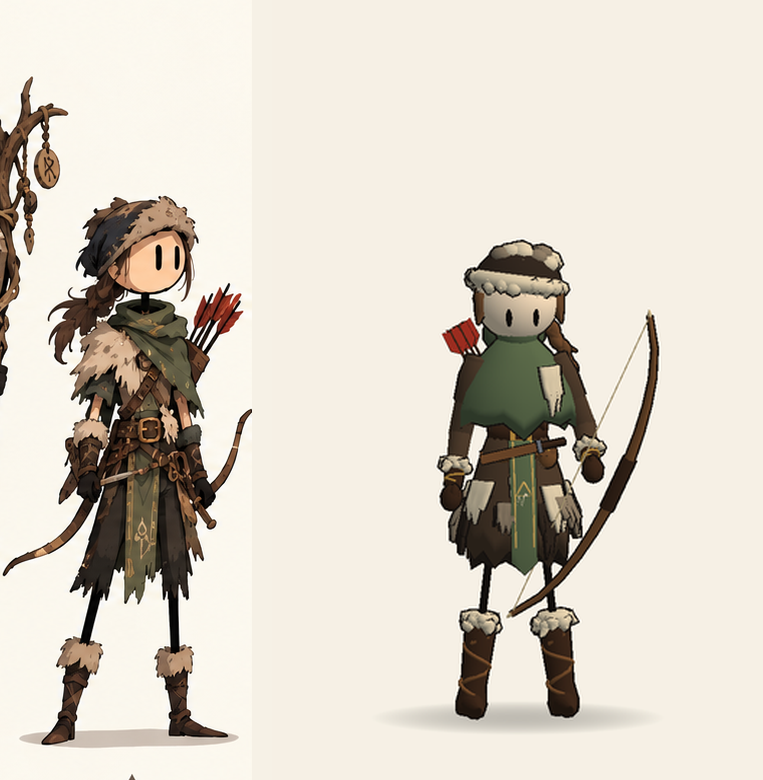
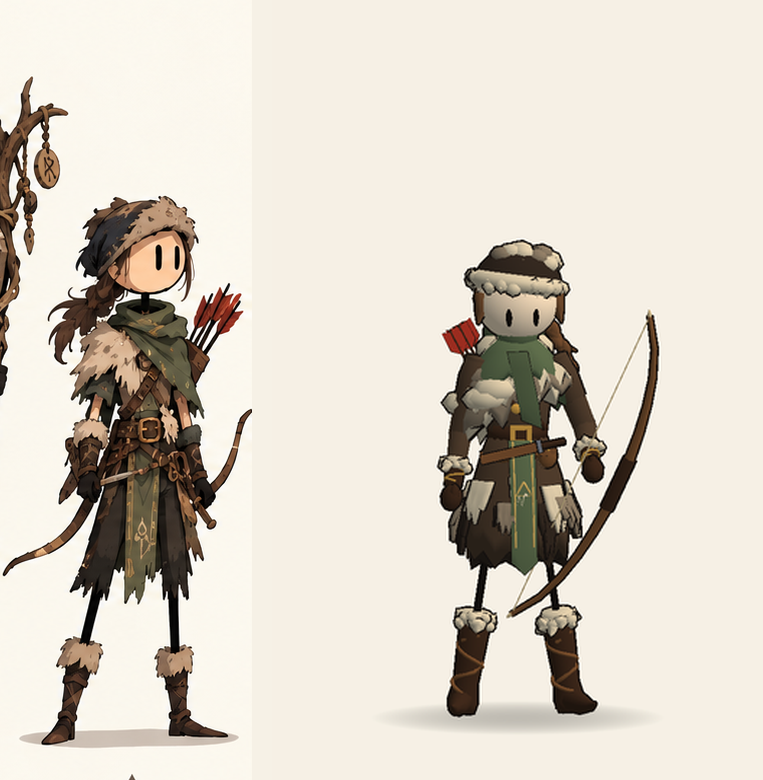
Odin's Coin characters: Scout polish pass 1 (all six have had a first pass)
The Scout's green hood-scarf is now a short capelet round the neck,
raised in front so the chest and straps show, with the scarf's tail
hanging down one side; a shaggy pelt sits over the right shoulder only
(ShoulderPelt can now be one-sided); a wide stance.

Claude-Session: https://claude.ai/code/session_01SCdejJ1UF8RUxAkkFhZXGU

Changed region(s): [[0.5727, 0.4308, 0.7536, 0.5846], [0.5727, 0.7077, 0.6632, 0.9231], [0.6933, 0.7077, 0.7837, 0.9231]]

diff --git a/OdinsCoin/Assets/Scripts/Characters/Garments.cs b/OdinsCoin/Assets/Scripts/Characters/Garments.cs
@@ -121,7 +121,10 @@ namespace OdinsCoin
         }
 
         /// <summary>A thick pelt over the shoulders: the wide shaggy silhouette of the concept art.</summary>
-        public static void ShoulderPelt(Dresser d, float size)
+        public static void ShoulderPelt(Dresser d, float size) { ShoulderPelt(d, size, 0f); }
+
+        /// <summary>The pelt; <paramref name="side"/> +1 keeps it over the right shoulder only (-1 left, 0 both).</summary>
+        public static void ShoulderPelt(Dresser d, float size, float side)
         {
             var f = d.fit;
             float s = d.S;
@@ -133,7 +136,14 @@ namespace OdinsCoin
             float top = f.shoulderY + 0.035f * s;
             // Short over the chest (so brooches, straps and the tunic show), long over the shoulders and back.
             float drop = f.shoulderY - bottom;
-            System.Func<float, float> shortFront = a => { float c = Mathf.Max(0f, Mathf.Cos(a)); return drop * 0.7f * c * c; };
+            System.Func<float, float> shortFront = a =>
+            {
+                float c = Mathf.Max(0f, Mathf.Cos(a));
+                float raise = drop * 0.7f * c * c;
+                // One-sided: pull the hem right up on the other shoulder.
+                if (side != 0f) raise = Mathf.Max(raise, drop * 0.95f * Mathf.Clamp01(-Mathf.Sin(a) * side * 1.5f + 0.2f));
+                return raise;
+            };
             float hug = Mathf.Clamp01(f.chestR * f.depth * 1.25f / (r * 0.8f));
             System.Func<float, float> hugFront = a => { float c = Mathf.Max(0f, Mathf.Cos(a)); return Mathf.Lerp(1f, hug, c * c); };
             d.Add(Joints.Body, d.pal.furShadow, CharacterKit.RaggedSkirt(top - 0.02f * s, f.chestR * 0.78f, bottom - 0.035f * s, r * 1.02f, 0.78f, 26, 0.07f * s * size, d.seed + 7, shortFront, hugFront));
@@ -142,7 +152,9 @@ namespace OdinsCoin
             var rng = new System.Random(d.seed + 8);
             for (int i = 0; i < 16; i++)
             {
-                float a2 = Mathf.PI * 0.35f + (float)rng.NextDouble() * Mathf.PI * 1.3f; // mostly on the shoulders and back
+                float a2 = side != 0f
+                    ? Mathf.PI * 0.5f * side + ((float)rng.NextDouble() - 0.5f) * 1.6f // on the one shoulder
+                    : Mathf.PI * 0.35f + (float)rng.NextDouble() * Mathf.PI * 1.3f;   // mostly on the shoulders and back
                 float t = 0.35f + (float)rng.NextDouble() * 0.6f;
                 float rad = Mathf.Lerp(f.chestR * 0.62f, r, t * t) + 0.01f * s;
                 float y = Mathf.Lerp(top, bottom, t) + 0.012f * s;
@@ -944,12 +956,23 @@ namespace OdinsCoin
             d.Add(Joints.Body, d.pal.accent, MeshData.Lathe(new[] {
                 new Vector2(f.chestR * 0.5f, f.neckY - 0.01f * s), new Vector2(f.chestR * 0.7f, f.neckY + 0.04f * s), new Vector2(f.chestR * 0.55f, f.neckY + 0.07f * s) }, 16)
                 .Transformed(Vector3.zero, Quaternion.identity, new Vector3(1f, 1f, 0.95f)));
-            d.Add(Joints.Body, d.pal.accent, CharacterKit.RaggedSkirt(f.neckY + 0.01f * s, f.chestR * 0.62f, f.chest - 0.05f * s, f.shoulderX + 0.06f * s, 0.8f, 18, 0.05f * s, d.seed + 83));
+            // A short capelet over the shoulders, raised in front so the chest shows.
+            float capeBottom = f.shoulderY - 0.1f * s, capeDrop = f.neckY - capeBottom;
+            d.Add(Joints.Body, d.pal.accent, CharacterKit.RaggedSkirt(f.neckY + 0.01f * s, f.chestR * 0.62f, capeBottom, f.shoulderX + 0.03f * s, 0.8f, 18, 0.05f * s, d.seed + 83,
+                a => { float c = Mathf.Max(0f, Mathf.Cos(a)); return capeDrop * 0.55f * c * c; }, a => { float c = Mathf.Max(0f, Mathf.Cos(a)); return Mathf.Lerp(1f, 0.7f, c * c); }));
+            // The scarf's tail hanging down the front, off to one side.
+            const int rows = 5;
+            var tail = new Vector3[rows, 2];
+            for (int r = 0; r < rows; r++)
+                for (int c = 0; c < 2; c++)
+                {
+                    float v = r / (float)(rows - 1);
+                    float y = f.neckY - 0.02f * s - v * 0.24f * s - (r == rows - 1 && c == 0 ? 0.03f * s : 0f);
+                    tail[r, c] = new Vector3((-0.02f - v * 0.05f + c * 0.07f) * s, y, f.TorsoRadius(Mathf.Max(y, f.waist)) * f.depth + 0.025f + v * 0.01f);
+                }
+            d.Add(Joints.Body, VikingModel.Shade(d.pal.accent, 0.9f), CharacterKit.Sheet(tail, Vector3.forward, 0.012f * s));
             // The hood, down, bunched behind the neck.
             d.Add(Joints.Body, VikingModel.Shade(d.pal.accent, 0.85f), MeshData.Ellipsoid(new Vector3(0f, f.neckY + 0.02f * s, -f.chestR * 0.7f), new Vector3(0.11f, 0.08f, 0.07f) * s, 12, 7));
-            // A shaggy pelt thrown over the right shoulder.
-            d.Add(Joints.Body, d.pal.fur, CharacterKit.Flaps(f.shoulderY + 0.03f * s, 0.14f * s, 3, 0.3f, f.depth, y => y > f.waist ? f.TorsoRadius(y) + 0.08f * s : f.waistR, 0.01f, d.seed + 84, 0.014f * s)
-                .Transformed(Vector3.zero, Quaternion.Euler(0f, 70f, 0f), Vector3.one));
         }
 
         /// <summary>A knife in a sheath worn crosswise at the front of the belt.</summary>

diff --git a/tools/preview/HeroPreview.cs b/tools/preview/HeroPreview.cs
@@ -143,8 +143,8 @@ public static class HeroPreview
         ready.worldRot[Joints.OffHand] = Quaternion.LookRotation(new Vector3(-0.35f, 0.88f, 0.3f), new Vector3(-0.8f, 0f, 0.3f));
         ready.rot[Joints.RightArm] = Quaternion.Euler(4f, 0f, 12f);
         ready.rot[Joints.RightForearm] = Quaternion.Euler(-25f, 0f, 0f);
-        ready.rot[Joints.LeftLeg] = Quaternion.Euler(0f, 0f, -7f);
-        ready.rot[Joints.RightLeg] = Quaternion.Euler(0f, 0f, 7f);
+        ready.rot[Joints.LeftLeg] = Quaternion.Euler(0f, -16f, -9f);
+        ready.rot[Joints.RightLeg] = Quaternion.Euler(0f, 18f, 9f);
         shots.Add(new Shot { label = "The Scout", model = scoutModel, pose = ready, yaw = 188f });
         shots.Add(new Shot { label = "Jarl, three-quarter", model = jarlModel, pose = stand, yaw = 215f });
         shots.Add(new Shot { label = "Navigator, three-quarter", model = navModel, pose = reading, yaw = 150f });

diff --git a/OdinsCoin/Assets/Scripts/Characters/Outfits.cs b/OdinsCoin/Assets/Scripts/Characters/Outfits.cs
@@ -173,6 +173,7 @@ namespace OdinsCoin
                     Garments.Tabard(d, 0.42f, 0.09f);
                     Garments.BeltKnife(d);
                     Garments.Quiver(d);
+                    Garments.ShoulderPelt(d, 1.0f, 1f);
                     Garments.Cowl(d);
                     Garments.FurCap(d);
                 } } },

diff --git a/OdinsCoin/CHARACTERS.md b/OdinsCoin/CHARACTERS.md
@@ -29,7 +29,7 @@ Alt bygges i kode (ingen modellfiler trengs). `tools/preview/render.sh` tegner e
 - [x] **6. Spydvakten:** hjelm, pelskrage, rødt skjerf, langt spyd med rød vimpel, rundt rødt skjold med mønster.
 - [x] **7. Den gamle seeren:** gevir-hodepynt med runesteiner, lange hvite fletter, lang fillete kjortel, stav med lysende runestein.
 - [x] **8. Speideren:** pelslue, grønt skjerf og grønn tunika, bue og pilkogger.
-- [ ] **8b. Finpuss, runde for runde:** Punktene over er bare første versjoner. Når alle seks finnes, går jeg tilbake til hver figur og sammenligner med konseptbildet igjen og igjen, til de er så like som mulig. Kjente forskjeller så langt:
+- [ ] **8b. Finpuss, runde for runde:** (Runde 1 er ferdig for alle seks: pelsen er bygd om som lurvete skulderkapper, kappene er fillete med folder, Raiderens økse og støvler er rettet, Navigatørens skjørt, Spydvaktens triquetra-skjold, Seerens gevir og Speiderens hetteskjerf.) Punktene over er bare første versjoner. Når alle seks finnes, går jeg tilbake til hver figur og sammenligner med konseptbildet igjen og igjen, til de er så like som mulig. Kjente forskjeller så langt:
   - **Raider:** Pelsen er for jevn og lys. Den venstre armen med øksa synes for lite. Ermene og de mørke underlagene i skjørtet trenger mer form, og støvlene bør være slankere med spissere tær.
   - **Jarl:** Kronen trenger flere detaljer (runemønster og gullkanter på hornene). Pelskragen må være mer lurvete og mindre hvit. Kappen trenger folder og tydeligere filler. Remmer og ringer mangler på beltet. Sverdet og skjoldet må ha riktig størrelse og mønster.
   - **Navigatør:** Skjørtet er for kort og for smalt, og mangler det blå underskjørtet med pelskant. Kappen foran er for flat og trenger folder. Beina er for lange. Kartet trenger revne kanter og bedre tegning, og den ene hånda skal holde kanten av kartet.
